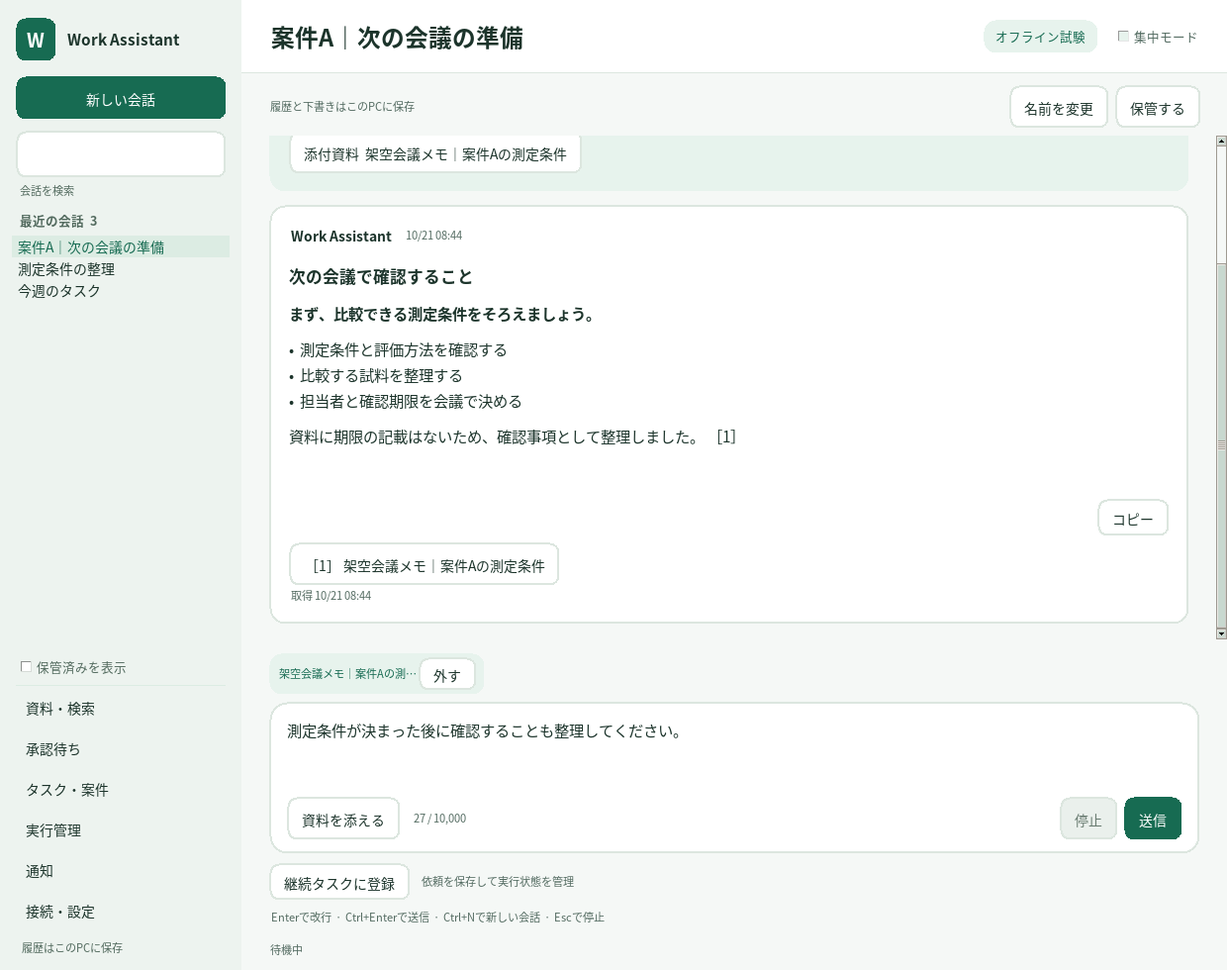
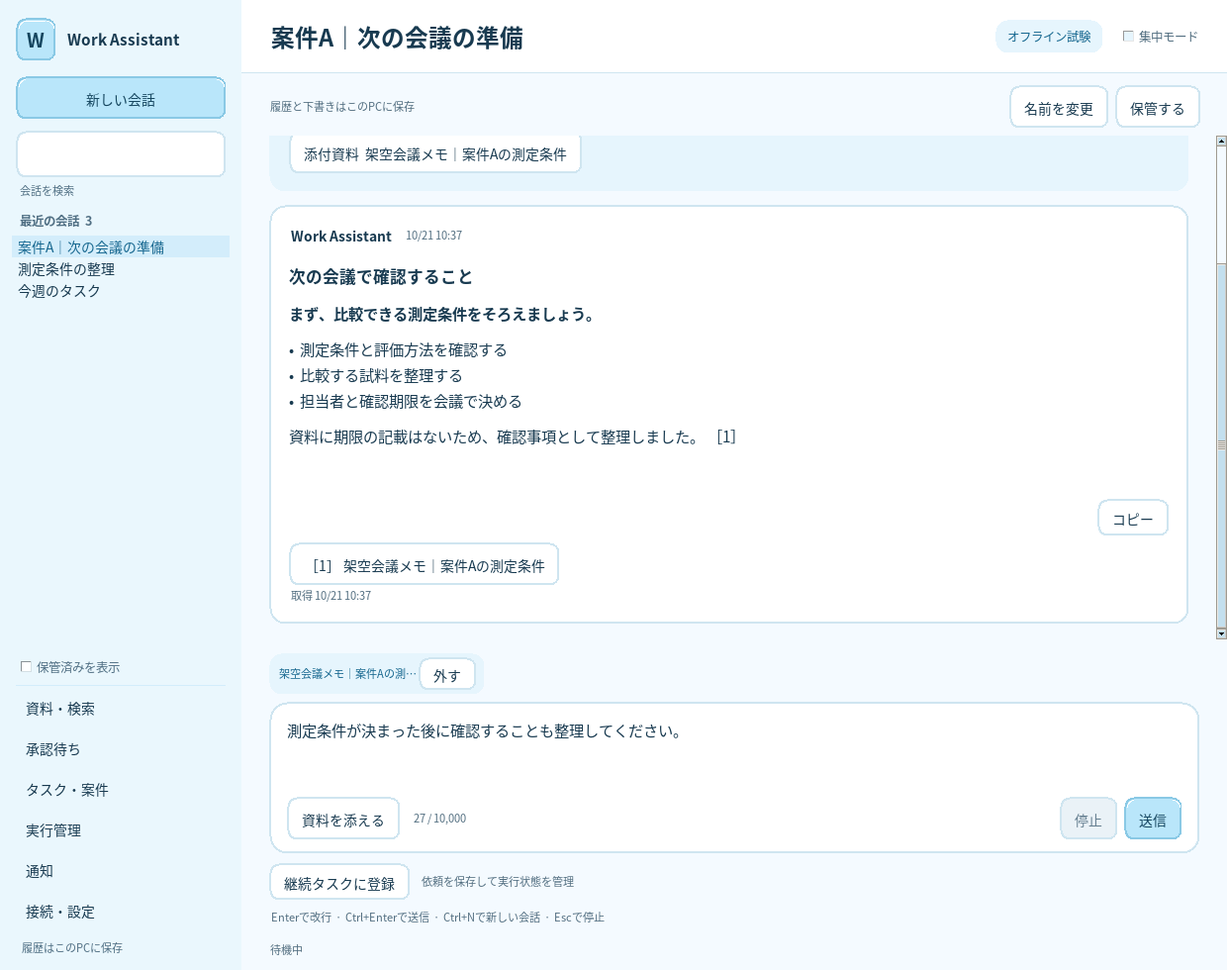
Refresh desktop colors with cool sky blue and subtle glossy highlights

diff --git a/work_assistant/ui.py b/work_assistant/ui.py
@@ -13,7 +13,8 @@ from tkinter.scrolledtext import ScrolledText
 from .chat import ChatController, error_help, display_answer, copy_answer, TOOL_LABELS
 from .common import AssistantError, safe_code
 from .runtime import Runtime
-from .ui_widgets import (BG, WHITE, INK, MUTED, LINE, TEAL, SOFT, NAV, NAV_HOVER, NAV_MUTED,
+from .ui_widgets import (BG, WHITE, INK, MUTED, LINE, ACCENT, SOFT, NAV, NAV_HOVER, NAV_MUTED,
+                         PRIMARY, PRIMARY_INK, PRIMARY_BORDER, SELECTION, SCROLL, SCROLL_HOVER,
                          ERROR, MessageCard, ScrollFrame, RoundedPanel, button, entry, label, badge, treeview, setup_theme)
 
 PAGE_TITLES = {"chat": "会話", "documents": "資料・検索", "proposals": "承認待ち",
@@ -91,8 +92,8 @@ class Desktop:
                        bg=NAV, fg=NAV_MUTED, activebackground=NAV, activeforeground=WHITE,
                        selectcolor=WHITE, font=(self.root.ui_font, 9), borderwidth=0, highlightthickness=0).pack(side="bottom", anchor="w", padx=14, pady=8)
         brand = tk.Frame(self.sidebar, bg=NAV); brand.pack(fill="x", padx=16, pady=(18, 16))
-        logo = RoundedPanel(brand, fill=TEAL, radius=10, padding=(9, 5)); logo.pack(side="left", padx=(0, 10))
-        label(logo.content, "W", size=14, bold=True, bg=TEAL, fg=WHITE).pack()
+        logo = RoundedPanel(brand, fill=PRIMARY, border=PRIMARY_BORDER, gloss=WHITE, radius=10, padding=(9, 5)); logo.pack(side="left", padx=(0, 10))
+        label(logo.content, "W", size=14, bold=True, bg=PRIMARY, fg=PRIMARY_INK).pack()
         label(brand, "Work Assistant", size=11, bold=True, bg=NAV, fg=INK).pack(side="left")
         button(self.sidebar, "新しい会話", self.new_session, primary=True).pack(fill="x", padx=16, pady=(0, 12))
         entry(self.sidebar, self.session_filter, dark=True).pack(fill="x", padx=16, ipady=7)
@@ -100,7 +101,7 @@ class Desktop:
         self.session_caption = label(self.sidebar, "最近の会話", size=9, bold=True, bg=NAV, fg=NAV_MUTED)
         self.session_caption.pack(anchor="w", padx=18, pady=(0, 4))
         self.session_list = tk.Listbox(self.sidebar, bg=NAV, fg=INK, selectbackground=NAV_HOVER,
-                                       selectforeground=TEAL, relief="flat", borderwidth=0, highlightthickness=0,
+                                       selectforeground=ACCENT, relief="flat", borderwidth=0, highlightthickness=0,
                                        activestyle="none", exportselection=False, font=(self.root.ui_font, 10),
                                        selectborderwidth=0, height=1)
         self.session_list.pack(fill="both", expand=True, padx=12)
@@ -139,7 +140,7 @@ class Desktop:
         shell = self.composer_surface.content
         self.input = tk.Text(shell, wrap="word", height=3, width=1, relief="flat", borderwidth=0,
                              undo=True, maxundo=80, font=(self.root.ui_font, 11), bg=WHITE, fg=INK,
-                             insertbackground=TEAL, padx=0, pady=3, highlightthickness=0, selectbackground="#d2ece1")
+                             insertbackground=ACCENT, padx=0, pady=3, highlightthickness=0, selectbackground=SELECTION)
         self.input.pack(fill="x")
         self.placeholder = label(self.input, "質問を入力してください。資料の添付もできます。", size=10, fg=MUTED, wraplength=560, justify="left")
         self.placeholder.place(x=2, y=3)
@@ -211,7 +212,7 @@ class Desktop:
             panel.pack(fill="both", expand=True, padx=24, pady=(0, 20)); parent = panel.content
         widget = ScrolledText(parent, wrap="word", relief="flat", borderwidth=0,
                               bg=WHITE, fg=INK, padx=0, pady=0, font=(self.root.ui_font, 10), highlightthickness=0)
-        widget.vbar.configure(bg="#c8d8cf", activebackground="#adC4b6", troughcolor=WHITE,
+        widget.vbar.configure(bg=SCROLL, activebackground=SCROLL_HOVER, troughcolor=WHITE,
                               relief="flat", borderwidth=0, highlightthickness=0, width=11, elementborderwidth=0)
         widget.pack(fill="both", expand=True); widget.configure(state="disabled")
         return widget
@@ -220,7 +221,7 @@ class Desktop:
         panel = RoundedPanel(parent, fill=WHITE, border=LINE, padding=10)
         panel.pack(fill="x", padx=24)
         widget = tk.Listbox(panel.content, height=height, font=(self.root.ui_font, 10), relief="flat", borderwidth=0,
-                            bg=WHITE, fg=INK, selectbackground=SOFT, selectforeground=TEAL,
+                            bg=WHITE, fg=INK, selectbackground=SOFT, selectforeground=ACCENT,
                             highlightthickness=0, exportselection=False, activestyle="none")
         widget.pack(fill="x"); return widget
 
@@ -245,7 +246,7 @@ class Desktop:
         for page in self.pages.values(): page.pack_forget()
         self.pages[name].pack(fill="both", expand=True); self.current_page = name
         for key, nav in self.nav_buttons.items():
-            nav.configure(bg=NAV_HOVER if key == name else NAV, fg=TEAL if key == name else INK)
+            nav.configure(bg=NAV_HOVER if key == name else NAV, fg=ACCENT if key == name else INK)
         title = self.rt.store.session(self.current_session)["title"] if name == "chat" else PAGE_TITLES[name]
         self.section_label.configure(text=PAGE_TITLES[name])
         self.heading.configure(text=title[:26] + ("…" if len(title) > 26 else ""))
@@ -462,7 +463,7 @@ class Desktop:
         if self.pending_request != job.request_id:
             self.pending_card = MessageCard(self.thread.inner, text="", status="生成中・未確定")
             self.pending_request = job.request_id
-            self.pending_label = label(self.pending_card.footer, job.progress, size=9, fg=TEAL); self.pending_label.pack(side="left")
+            self.pending_label = label(self.pending_card.footer, job.progress, size=9, fg=ACCENT); self.pending_label.pack(side="left")
             self.thread.bind_wheel(self.pending_card)
         self.pending_card.set_text(job.text or "…"); self.pending_label.configure(text=job.progress)
         self.pending_card.set_status("停止中" if job.cancel.is_set() else "生成中・未確定"); self.thread.bottom()
@@ -481,7 +482,7 @@ class Desktop:
             try: title = self.rt.store.get_document(did)["title"]
             except AssistantError: title = "利用できない資料"
             chip = RoundedPanel(self.attachment_strip, fill=SOFT, radius=12, padding=(8, 4)); chip.grid(row=index // 3, column=index % 3, sticky="w", padx=(0, 6), pady=2)
-            label(chip.content, title[:12] + ("…" if len(title) > 12 else ""), size=8, fg=TEAL, bg=SOFT).pack(side="left")
+            label(chip.content, title[:12] + ("…" if len(title) > 12 else ""), size=8, fg=ACCENT, bg=SOFT).pack(side="left")
             remove = button(chip.content, "外す", lambda d=did: self.remove_attachment(d)); remove.configure(padx=4, pady=2); remove.pack(side="left")
 
     def remove_attachment(self, did):

diff --git a/work_assistant/ui_widgets.py b/work_assistant/ui_widgets.py
@@ -8,16 +8,24 @@ from tkinter import font, ttk
 
 from .ui_surfaces import RoundedPanel, RoundedButton, RoundedEntry, RoundedLabel, RoundedTreeview
 
-BG = "#f5f8f6"
+BG = "#f4faff"
 WHITE = "#ffffff"
-INK = "#1c342b"
-MUTED = "#536b61"
-LINE = "#dce6df"
-TEAL = "#176b52"
-SOFT = "#e7f3ed"
-NAV = "#edf3ef"
-NAV_HOVER = "#dcece3"
-NAV_MUTED = "#526a5e"
+INK = "#183a50"
+MUTED = "#526e80"
+LINE = "#cfe5f0"
+ACCENT = "#16678f"
+SOFT = "#e6f5fd"
+NAV = "#eaf7fd"
+NAV_HOVER = "#d3edfb"
+NAV_MUTED = "#506f83"
+PRIMARY = "#b9e6fa"
+PRIMARY_INK = "#15465f"
+PRIMARY_BORDER = "#8ac9e5"
+SELECTION = "#c2e6f9"
+SCROLL = "#c3dfee"
+SCROLL_HOVER = "#9bc9e1"
+DISABLED = "#eaf2f7"
+DISABLED_INK = "#657f90"
 ERROR = "#a13e38"
 
 
@@ -53,15 +61,15 @@ def setup_theme(root):
         font.nametofont(name).configure(family=family, size=10)
     style = ttk.Style(root)
     style.theme_use("clam")
-    style.configure("TScrollbar", background="#c8d8cf", troughcolor=BG, borderwidth=0, arrowsize=11)
-    style.configure("TProgressbar", background=TEAL, troughcolor=SOFT, borderwidth=0)
+    style.configure("TScrollbar", background=SCROLL, troughcolor=BG, borderwidth=0, arrowsize=11)
+    style.configure("TProgressbar", background=ACCENT, troughcolor=SOFT, borderwidth=0)
     style.configure("Treeview", font=(family, 10), rowheight=max(36, font.Font(family=family, size=10).metrics("linespace") + 12), background=WHITE, fieldbackground=WHITE, foreground=INK, borderwidth=0, relief="flat", lightcolor=WHITE, darkcolor=WHITE, bordercolor=WHITE)
     style.configure("Treeview.Heading", font=(family, 9, "bold"), background=WHITE, foreground=MUTED, borderwidth=0, relief="flat", padding=(10, 10))
-    style.map("Treeview", background=[("selected", SOFT)], foreground=[("selected", TEAL)])
+    style.map("Treeview", background=[("selected", SOFT)], foreground=[("selected", ACCENT)])
     style.configure("TNotebook", background=BG, borderwidth=0, bordercolor=BG, lightcolor=BG, darkcolor=BG, relief="flat", tabmargins=(0, 0, 0, 10))
     style.configure("TNotebook.Tab", background=NAV, foreground=MUTED, font=(family, 9), padding=(12, 9), borderwidth=0)
-    style.map("TNotebook.Tab", foreground=[("selected", TEAL), ("active", INK)], expand=[("selected", (0, 0, 0, 0)), ("!selected", (0, 0, 0, 0))])
-    root._tab_images = [_tab_image(root, BG), _tab_image(root, SOFT), _tab_image(root, NAV_HOVER), _tab_image(root, SOFT, TEAL)]
+    style.map("TNotebook.Tab", foreground=[("selected", ACCENT), ("active", INK)], expand=[("selected", (0, 0, 0, 0)), ("!selected", (0, 0, 0, 0))])
+    root._tab_images = [_tab_image(root, BG), _tab_image(root, SOFT), _tab_image(root, NAV_HOVER), _tab_image(root, SOFT, ACCENT)]
     normal, selected, hover, focused = root._tab_images
     style.element_create("Rounded.tab", "image", normal, ("selected", "focus", focused), ("selected", selected), ("active", hover), border=10, sticky="nsew")
     style.layout("TNotebook.Tab", [("Rounded.tab", {"sticky": "nsew", "children": [("Notebook.padding", {"side": "top", "sticky": "nsew", "children": [("Notebook.label", {"side": "top", "sticky": ""})]})]})])
@@ -77,21 +85,22 @@ def label(parent, text="", *, size=10, bold=False, fg=INK, bg=WHITE, **kwargs):
 
 
 def button(parent, text, command, *, primary=False, dark=False, **kwargs):
-    fill = TEAL if primary else NAV if dark else WHITE
-    foreground = WHITE if primary else INK
+    fill = PRIMARY if primary else NAV if dark else WHITE
+    foreground = PRIMARY_INK if primary else INK
     return RoundedButton(parent, text, command, fill=fill, foreground=foreground,
-        hover="#125c46" if primary else NAV_HOVER if dark else SOFT,
-        pressed="#0e4e3a" if primary else "#d1e6da", border=None if primary or dark else LINE,
-        focus=WHITE if primary else TEAL, disabled_fill="#eaf0ec", disabled_foreground="#687b70",
+        hover="#a9dff6" if primary else NAV_HOVER if dark else SOFT,
+        pressed="#94d3ef" if primary else "#c5e6f7", border=PRIMARY_BORDER if primary else None if dark else LINE,
+        focus=ACCENT, disabled_fill=DISABLED, disabled_foreground=DISABLED_INK, gloss=WHITE if primary else None,
         font=(parent._root().ui_font, 10), **kwargs)
 
 
 def entry(parent, variable=None, *, dark=False, **kwargs):
     return RoundedEntry(parent, variable, fill=WHITE, foreground=INK, border=LINE,
-                        focus=TEAL, font=(parent._root().ui_font, 10), **kwargs)
+                        focus=ACCENT, disabled_fill=DISABLED, disabled_foreground=DISABLED_INK,
+                        selection=SELECTION, font=(parent._root().ui_font, 10), **kwargs)
 
 
-def badge(parent, text="", *, fill=SOFT, foreground=TEAL, **kwargs):
+def badge(parent, text="", *, fill=SOFT, foreground=ACCENT, **kwargs):
     return RoundedLabel(parent, text, fill=fill, foreground=foreground,
                         font=(parent._root().ui_font, 9), **kwargs)
 
@@ -185,15 +194,15 @@ class MessageCard(RoundedPanel):
         top = tk.Frame(self.content, bg=bg); top.pack(fill="x")
         label(top, "あなた" if role == "user" else "Work Assistant", bold=True, bg=bg).pack(side="left")
         label(top, timestamp, size=8, fg=MUTED, bg=bg).pack(side="left", padx=10)
-        self.state_label = label(top, status, size=8, fg=TEAL, bg=bg); self.state_label.pack(side="right")
+        self.state_label = label(top, status, size=8, fg=ACCENT, bg=bg); self.state_label.pack(side="right")
         self.body = tk.Text(self.content, wrap="word", width=1, height=2, relief="flat", borderwidth=0,
                             font=(self._root().ui_font, 11), bg=bg, fg=INK,
-                            padx=0, pady=0, spacing1=0, spacing3=3, highlightthickness=0, selectbackground="#b8e4dc", cursor="xterm")
+                            padx=0, pady=0, spacing1=0, spacing3=3, highlightthickness=0, selectbackground=SELECTION, cursor="xterm")
         self.body.tag_configure("strong", font=(self._root().ui_font, 11, "bold"))
         self.body.tag_configure("heading", font=(self._root().ui_font, 12, "bold"), spacing1=4, spacing3=4)
         self.body.tag_configure("gap", font=(self._root().ui_font, 4), spacing1=0, spacing3=1)
         self.body.tag_configure("code", font=(self._root().mono_font, 10), background="#e8edf2", lmargin1=10, lmargin2=10)
-        self.body.tag_configure("inline", font=(self._root().mono_font, 10), foreground=TEAL)
+        self.body.tag_configure("inline", font=(self._root().mono_font, 10), foreground=ACCENT)
         self.body.pack(fill="x", pady=(12, 0))
         self._height_job = None
         self.body.bind("<Configure>", self._resize)

diff --git a/work_assistant/ui_surfaces.py b/work_assistant/ui_surfaces.py
@@ -15,12 +15,13 @@ def rounded_shape(canvas, x, y, width, height, radius, color):
 
 
 class RoundedPanel(tk.Frame):
-    def __init__(self, parent, *, fill, border=None, radius=16, padding=16, outer=None, **kwargs):
+    def __init__(self, parent, *, fill, border=None, radius=16, padding=16, outer=None, gloss=None, **kwargs):
         if outer is None:
             try: outer = parent.cget("bg")
             except tk.TclError: outer = parent._root().cget("bg")
         super().__init__(parent, bg=outer, **kwargs)
         self.fill, self.border, self.radius = fill, border, radius
+        self.gloss = gloss
         self.destroying = False
         self.backdrop = tk.Canvas(self, bg=outer, highlightthickness=0, borderwidth=0, takefocus=False)
         self.backdrop.place(x=0, y=0, relwidth=1, relheight=1)
@@ -45,6 +46,16 @@ class RoundedPanel(tk.Frame):
             rounded_shape(self.backdrop, 2, 2, max(0, width - 4), max(0, height - 4), max(0, self.radius - 2), self.fill)
         else:
             rounded_shape(self.backdrop, 0, 0, width, height, self.radius, self.fill)
+        if self.gloss and width > 12 and height > 12:
+            # A fine upper reflection adds a wet sheen without placing a
+            # gradient behind opaque native text or changing control hit areas.
+            inset = 2.5
+            radius = max(1, min(self.radius - inset, (width - 2*inset) / 2, (height - 2*inset) / 2))
+            self.backdrop.create_line(inset + radius, inset, width - inset - radius, inset, fill=self.gloss)
+            self.backdrop.create_arc(inset, inset, inset + 2*radius, inset + 2*radius,
+                start=90, extent=90, style="arc", outline=self.gloss)
+            self.backdrop.create_arc(width - inset - 2*radius, inset, width - inset, inset + 2*radius,
+                start=0, extent=90, style="arc", outline=self.gloss)
 
     def destroy(self):
         self.destroying = True
@@ -73,13 +84,13 @@ class SurfaceControl:
 
 class RoundedButton(SurfaceControl, tk.Button):
     def __init__(self, parent, text, command, *, fill, foreground, hover, pressed, border,
-                 focus, disabled_fill, disabled_foreground, font, **kwargs):
+                 focus, disabled_fill, disabled_foreground, font, gloss=None, **kwargs):
         self.normal_fill, self.normal_fg = fill, foreground
         self.hover_fill, self.pressed_fill, self.normal_border = hover, pressed, border
         self.focus_color = focus
         self.disabled_fill, self.disabled_fg = disabled_fill, disabled_foreground
         self.hovering, self.pressing, self.edge_pressed = False, False, False
-        self.surface = RoundedPanel(parent, fill=fill, border=border, radius=10, padding=(10, 3))
+        self.surface = RoundedPanel(parent, fill=fill, border=border, radius=10, padding=(10, 3), gloss=gloss)
         padx, pady = kwargs.pop("padx", 4), kwargs.pop("pady", 7)
         super().__init__(self.surface.content, text=text, command=command, bg=fill, fg=foreground,
             activebackground=hover, activeforeground=foreground, disabledforeground=disabled_foreground,
@@ -146,13 +157,14 @@ class RoundedButton(SurfaceControl, tk.Button):
 
 
 class RoundedEntry(SurfaceControl, tk.Entry):
-    def __init__(self, parent, variable=None, *, fill, foreground, border, focus, font, **kwargs):
+    def __init__(self, parent, variable=None, *, fill, foreground, border, focus, font,
+                 disabled_fill, disabled_foreground, selection, **kwargs):
         self.surface = RoundedPanel(parent, fill=fill, border=border, radius=10, padding=(12, 5))
         self.normal_border, self.focus_color = border, focus
         super().__init__(self.surface.content, textvariable=variable, bg=fill, fg=foreground,
             insertbackground=focus, highlightthickness=0, relief="flat", borderwidth=0,
-            disabledbackground="#edf2ef", disabledforeground="#687b70",
-            selectbackground="#d2ece5", selectforeground=foreground, font=font, **kwargs)
+            disabledbackground=disabled_fill, disabledforeground=disabled_foreground,
+            selectbackground=selection, selectforeground=foreground, font=font, **kwargs)
         tk.Entry.pack(self, fill="both", expand=True)
         self.bind("<FocusIn>", lambda _: self.surface.appearance(fill, focus), add="+")
         self.bind("<FocusOut>", lambda _: self.surface.appearance(fill, border), add="+")

diff --git a/work_assistant/ui_settings.py b/work_assistant/ui_settings.py
@@ -13,7 +13,7 @@ from .config import minute_of_day
 from .security import expanded, model_api, validate_bedrock
 from .model_catalog import list_models
 from .setup_flow import SetupError, connection_fingerprint, probe_connection, validate_setup
-from .ui_widgets import BG, WHITE, INK, MUTED, TEAL, LINE, SOFT, ERROR, ScrollFrame, RoundedPanel, button, entry, label
+from .ui_widgets import BG, WHITE, INK, MUTED, ACCENT, LINE, SOFT, ERROR, ScrollFrame, RoundedPanel, button, entry, label
 
 AUTH_NAMES = {"sigv4": "AWSプロファイル・SSO", "api_key": "環境変数のBedrock APIキー"}
 
@@ -83,7 +83,7 @@ class SettingsPanel:
         self.check(0, "local_data_approved", "会社の利用条件を確認し、会話と選択した資料のローカル保存を許可する", self.base.local_data_approved)
         label(parent, "利用する資料フォルダ（資料を使う場合）", bold=True, bg=WHITE).pack(anchor="w")
         label(parent, "選んだフォルダ内の対応ファイルを検索対象にします。", size=9, fg=MUTED, bg=WHITE).pack(anchor="w", pady=(4, 8))
-        self.roots = tk.Listbox(parent, height=3, font=(self.app.root.ui_font, 10), exportselection=False, bg=WHITE, fg=INK, selectbackground=SOFT, selectforeground=TEAL, relief="flat", highlightthickness=1, highlightbackground=LINE, highlightcolor=TEAL, borderwidth=0)
+        self.roots = tk.Listbox(parent, height=3, font=(self.app.root.ui_font, 10), exportselection=False, bg=WHITE, fg=INK, selectbackground=SOFT, selectforeground=ACCENT, relief="flat", highlightthickness=1, highlightbackground=LINE, highlightcolor=ACCENT, borderwidth=0)
         self.roots.pack(fill="x"); self.inputs.append(self.roots)
         self.fields["roots"], self.field_tabs["roots"] = self.roots, 0
         for root in self.base.roots: self.roots.insert("end", root)
@@ -196,7 +196,7 @@ class SettingsPanel:
         cfg.auth = next((k for k, title in AUTH_NAMES.items() if title == self.vars["auth"].get()), "")
         key = self.catalog_key()
         self.busy = self.catalog_loading = True; self.set_busy()
-        self.catalog_label.configure(text="AWSから対応モデルと利用条件を取得しています…", fg=TEAL)
+        self.catalog_label.configure(text="AWSから対応モデルと利用条件を取得しています…", fg=ACCENT)
         self.status.set("モデル一覧を取得しています。入力内容は保存しません。")
         def work():
             try: self.catalog_events.put((key, list_models(cfg), None))
@@ -325,7 +325,7 @@ class SettingsPanel:
             self.show_error(error.message, error.field); return
         except AssistantError:
             self.show_error("設定の値を確認してください。入力内容は保持しています。"); return
-        self.busy = True; self.status_label.configure(fg=TEAL)
+        self.busy = True; self.status_label.configure(fg=ACCENT)
         self.status.set("設定を保存しています…" if not test else "設定を保存し、テスト用の入力でAI接続を確認しています…")
         self.set_busy()
         def work():
@@ -371,10 +371,10 @@ class SettingsPanel:
             self.show_error(message or (title + "。" + help_text), field)
         elif test:
             self.tabs.select(2); self.status.set("接続テストに成功しました。「質問画面へ」から質問できます。")
-            self.status_label.configure(fg=TEAL)
+            self.status_label.configure(fg=ACCENT)
         else:
             suffix = "「質問画面へ」から質問できます。" if self.app.ready() else "次に「AI接続」で必要な項目を設定してください。"
-            self.status.set("設定を保存して反映しました。" + suffix); self.status_label.configure(fg=TEAL)
+            self.status.set("設定を保存して反映しました。" + suffix); self.status_label.configure(fg=ACCENT)
         self.app.diagnostic_report = None
         self.app.info_view.pack_forget()
         self.app.refresh(schedule=False)

diff --git a/work_assistant/__init__.py b/work_assistant/__init__.py
@@ -1,2 +1,2 @@
 """Local-first, read-mostly work assistant. No network activity at import time."""
-__version__ = "0.4.0"
+__version__ = "0.4.1"

diff --git a/docs/UI_DESIGN.md b/docs/UI_DESIGN.md
@@ -1,6 +1,6 @@
 # デスクトップUIのデザイン方針
 
-2026-10-21 / v0.3.2。対象は会社PC上の業務アプリ。既存の設定・質問・資料・継続タスクの操作を維持し、明るい配色と角丸、文字と余白の一貫性を整える。
+2026-10-21 / v0.4.1。対象は会社PC上の業務アプリ。白と清涼感のある水色を基調に、主操作の淡い光沢、角丸、文字と余白の一貫性を整える。
 
 ## 利用場面と制約
 
@@ -13,18 +13,23 @@
 
 | 用途 | 色 |
 | --- | --- |
-| 作業領域の背景 | `#f5f8f6` |
+| 作業領域の背景 | `#f4faff` |
 | パネル・入力欄 | `#ffffff` |
-| サイドバー | `#edf3ef` |
-| 本文 | `#1c342b` |
-| 補足説明 | `#536b61` |
-| 主操作・フォーカス | `#176b52` |
-| 選択・補助的な面 | `#e7f3ed` |
-| 境界 | `#dce6df` |
+| サイドバー | `#eaf7fd` |
+| 本文 | `#183a50` |
+| 補足説明 | `#526e80` |
+| アクセント文字・フォーカス | `#16678f` |
+| 主操作の面／文字 | `#b9e6fa` / `#15465f` |
+| 主操作の輪郭／上辺の反射 | `#8ac9e5` / `#ffffff` |
+| 選択・補助的な面 | `#e6f5fd` |
+| ナビゲーションの選択 | `#d3edfb` |
+| 境界 | `#cfe5f0` |
+
+主ボタンとロゴには、水色の面・青い輪郭・上辺に沿う細い白い反射線を使い、艶を控えめに表現する。パネルは白を保ち、会話、資料、設定、選択、フォーカス、無効状態、スクロールバーまで同じ寒色系の色を使う。警告・エラーは状態の識別に必要な色を使う。
 
 角丸は入力・ボタン10px、補助表示12px、表14px、パネル16px、会話入力18px。余白は8・12・16・24pxを中心に使う。フォントはYu Gothic UI / Noto Sans CJK JP / Meiryoなど、利用環境にある日本語フォントを優先する。見出しと本文は同じ書体で、サイズと太さを変える。
 
-本文・補足・主ボタン・サイドバー・選択中の文字色は、それぞれの背景に対して4.5:1以上のコントラストを確認する。状態は色に加えて文言でも示す。角丸パネルに重ねてさらに同じパネルを並べる装飾は避ける。
+本文・補足・主ボタン・サイドバー・選択中の文字色は、それぞれの背景に対して4.5:1以上のコントラストを確認する。v0.4.1では本文11.93:1、補足5.38:1、主操作7.60:1、サイドバー4.88:1、選択中5.13:1を確認。主操作のホバー7.03:1・押下6.19:1、フォーカス線と主ボタンの面4.68:1。これは画面全体のアクセシビリティ認証ではない。状態は色に加えて文言でも示す。角丸パネルに重ねてさらに同じパネルを並べる装飾は避ける。
 
 ## 操作と状態
 

diff --git a/docs/TEST_REPORT.md b/docs/TEST_REPORT.md
@@ -1,5 +1,15 @@
 # 納品ソースの実行テスト結果
 
+## 水色の配色と光沢 v0.4.1の検証（2026-10-21）
+
+- Linux / Python3.13.5 / Tk8.6 / Xvfbでコア157件・実Tk操作36件、計193件が成功。コンパイルと差分の整合性も確認。
+- 会話・初期画面・初期設定・モデル選択・実行管理に加え、各一覧の空状態、資料選択、生成中、エラー、960×700を実描画で確認。保存済みの6枚の画面例を更新した。
+- 白と淡い水色、濃い青の文字、主操作とロゴの上辺の反射線を使用。ホバー・押下・フォーカス・無効・選択・スクロールバーまで配色を統一。標準部品の操作を継続試験し、新規UI依存は追加していない。
+- 文字のコントラストは本文11.93:1、補足5.38:1、主操作7.60:1、サイドバー4.88:1、選択中5.13:1。主操作のホバー7.03:1、押下6.19:1。画面全体のアクセシビリティ認証ではない。
+- Windows/Linux・Python3.11/3.13のCIで既存のコア・GUI・Native Messaging試験を継続する。[Actions](https://github.com/mugi0227/AI-Agent/actions)で結果を確認できる。
+
+色・部品・表示状態の基準は[UIデザイン](UI_DESIGN.md)に記載。
+
 ## Claude・モデル選択 v0.4.0の検証（2026-10-21）
 
 - コア157件・実Tk操作36件、計193件がLinux / Python3.13.5 / Tk8.6 / Xvfbで成功。Windows/Linux・Python3.11/3.13の同一試験は[Actions](https://github.com/mugi0227/AI-Agent/actions)で確認できる。

diff --git a/docs/READINESS_REVIEW.md b/docs/READINESS_REVIEW.md
@@ -1,6 +1,6 @@
 # 完成度とAIへの入力方法
 
-2026-10-21 / v0.4.0。Claude対応・モデル一覧と選択は[Bedrockのモデル選択](BEDROCK_MODELS.md)、明るい配色と共通の角丸UIは[デザイン方針](UI_DESIGN.md)に記載。初回設定・接続テスト・資料追加の画面と試験は[初期設定の完了条件](SETUP_ACCEPTANCE.md)に記載。**継続タスク、途中状態の保存・再開、実行権の世代管理、役割別の記憶と権限、会話/作業文脈の要約を追加しました。** 構造の要件と試験の対応は[アーキテクチャ評価](ARCHITECTURE_REVIEW.md)に記載しています。実モデルの回答品質と会社の接続環境は、構造の実装とは分けて評価します。
+2026-10-21 / v0.4.1。Claude対応・モデル一覧と選択は[Bedrockのモデル選択](BEDROCK_MODELS.md)、白と水色の配色・控えめな光沢・共通の角丸UIは[デザイン方針](UI_DESIGN.md)に記載。初回設定・接続テスト・資料追加の画面と試験は[初期設定の完了条件](SETUP_ACCEPTANCE.md)に記載。**継続タスク、途中状態の保存・再開、実行権の世代管理、役割別の記憶と権限、会話/作業文脈の要約を追加しました。** 構造の要件と試験の対応は[アーキテクチャ評価](ARCHITECTURE_REVIEW.md)に記載しています。実モデルの回答品質と会社の接続環境は、構造の実装とは分けて評価します。
 
 ## 完成度
 

diff --git a/docs/DELIVERY_STATUS.md b/docs/DELIVERY_STATUS.md
@@ -1,6 +1,8 @@
 # 納品・リポジトリ反映状況
 
-2026-10-21 / v0.4.0更新。
+2026-10-21 / v0.4.1更新。
+
+会話・設定・実行管理・各ダイアログを白と水色に統一。主操作とロゴに控えめな光沢を追加し、文字・選択・フォーカス・無効状態も配色を更新。設計とコントラストは[UIデザイン](UI_DESIGN.md)を参照。
 
 Claude Converse / ConverseStream、AWSからのモデル一覧取得、利用条件表示、画面でのモデル選択を追加。必要な権限・対応範囲と確認方法は[Bedrockのモデル選択](BEDROCK_MODELS.md)に記載。
 
